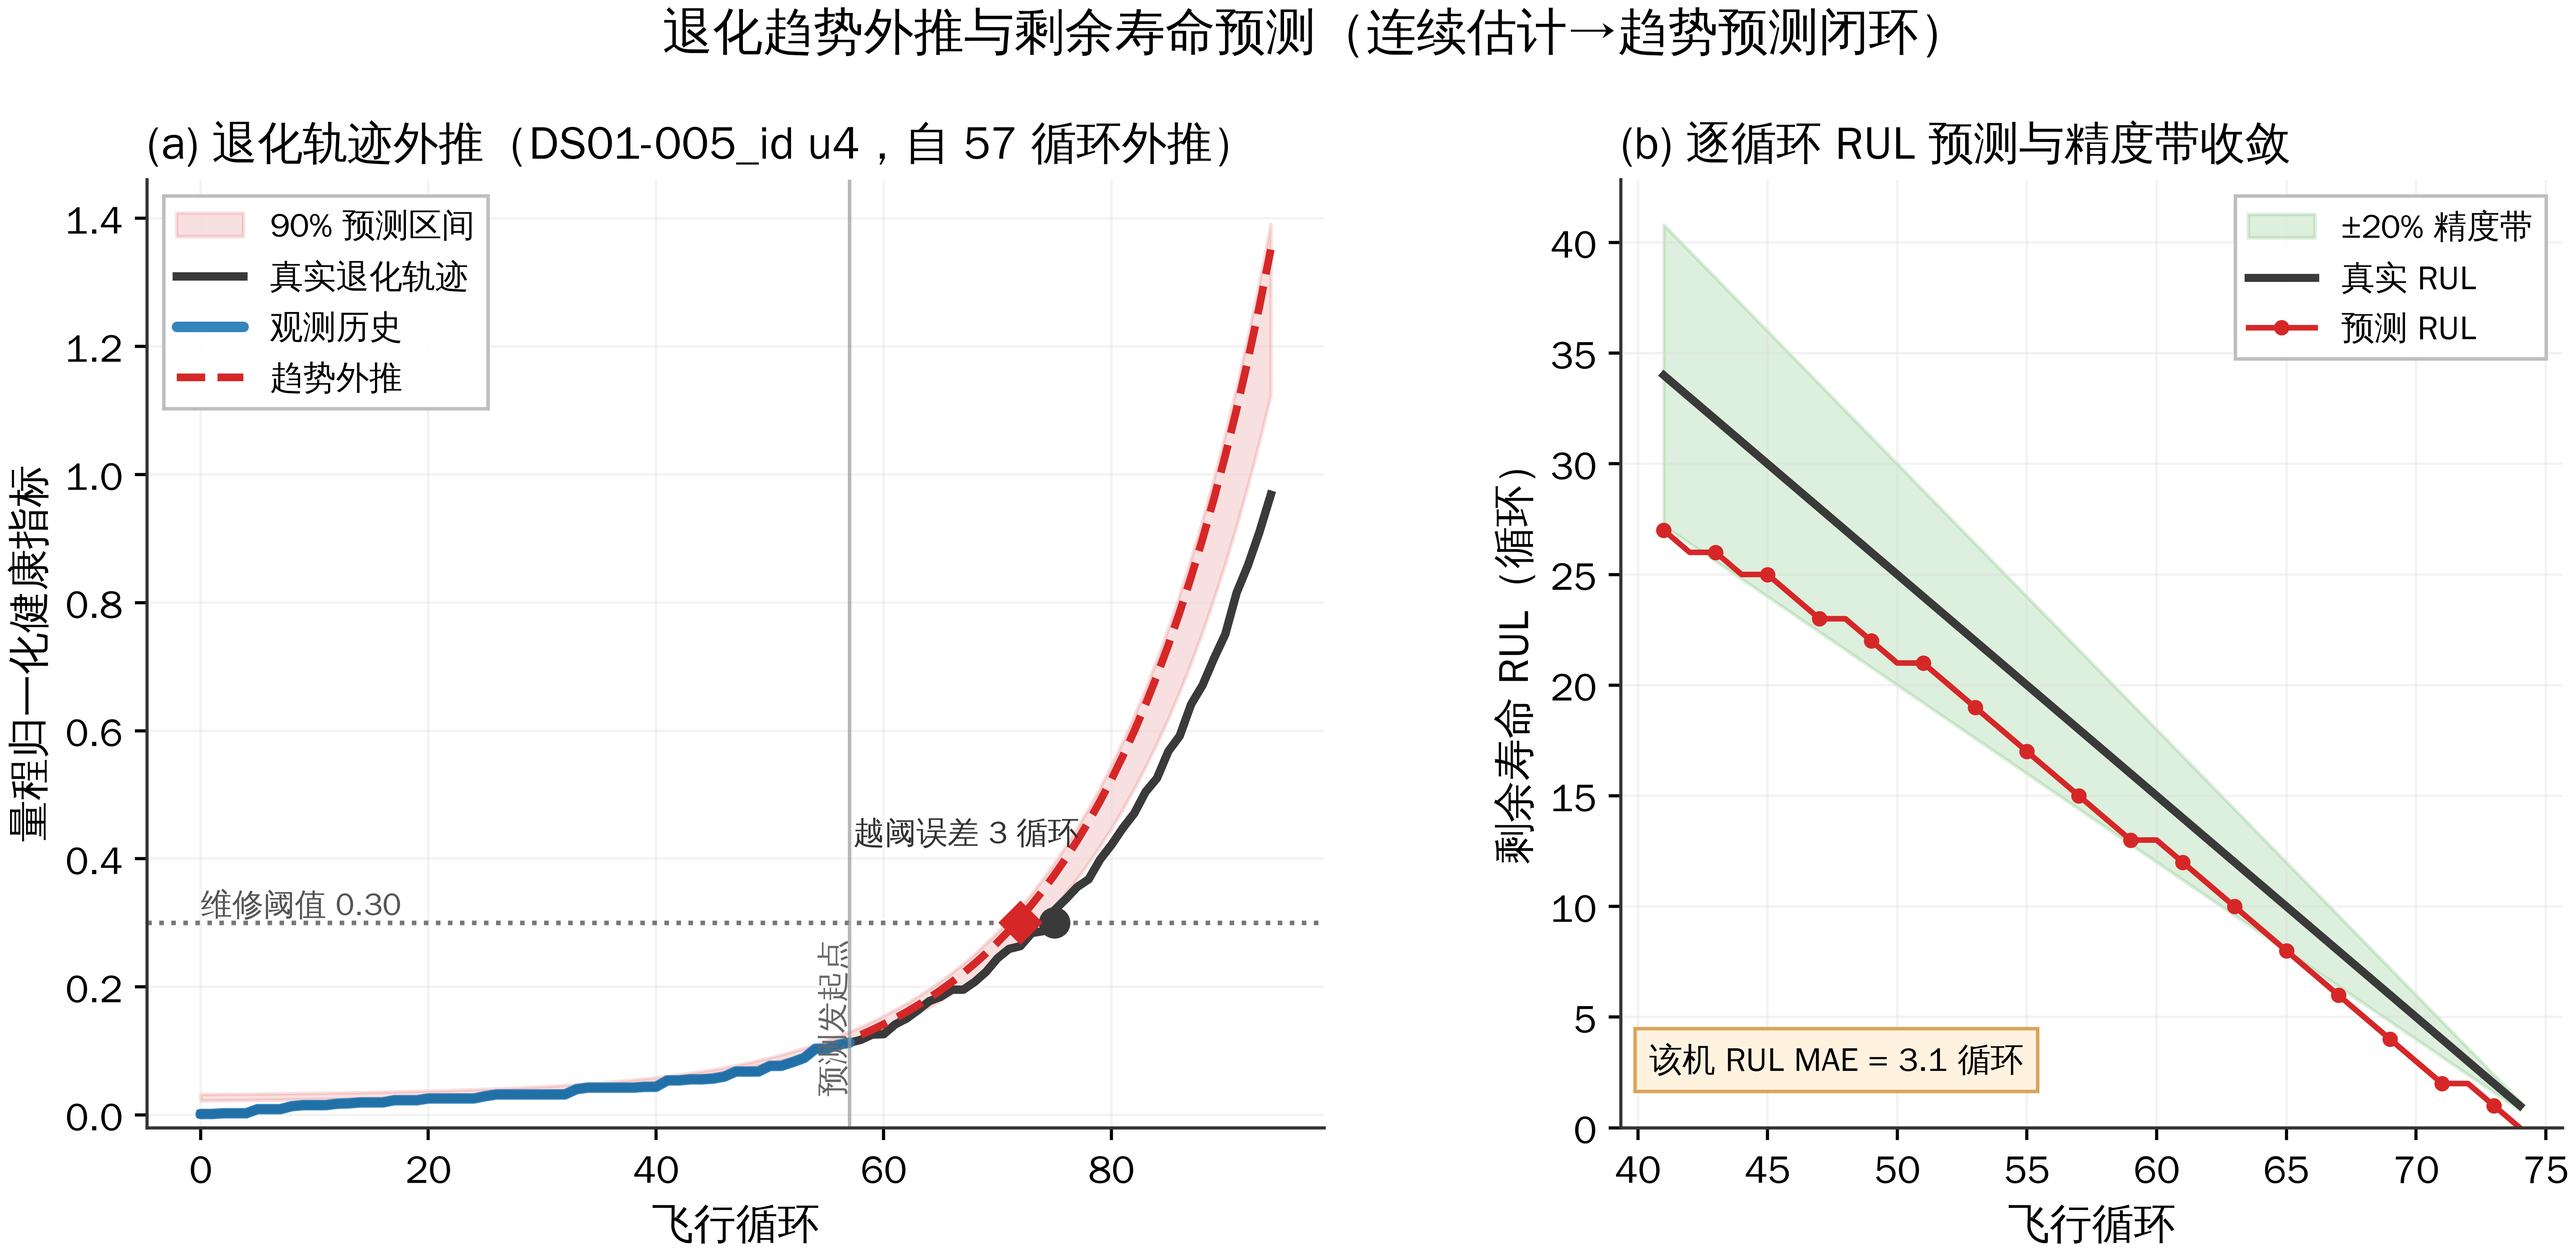
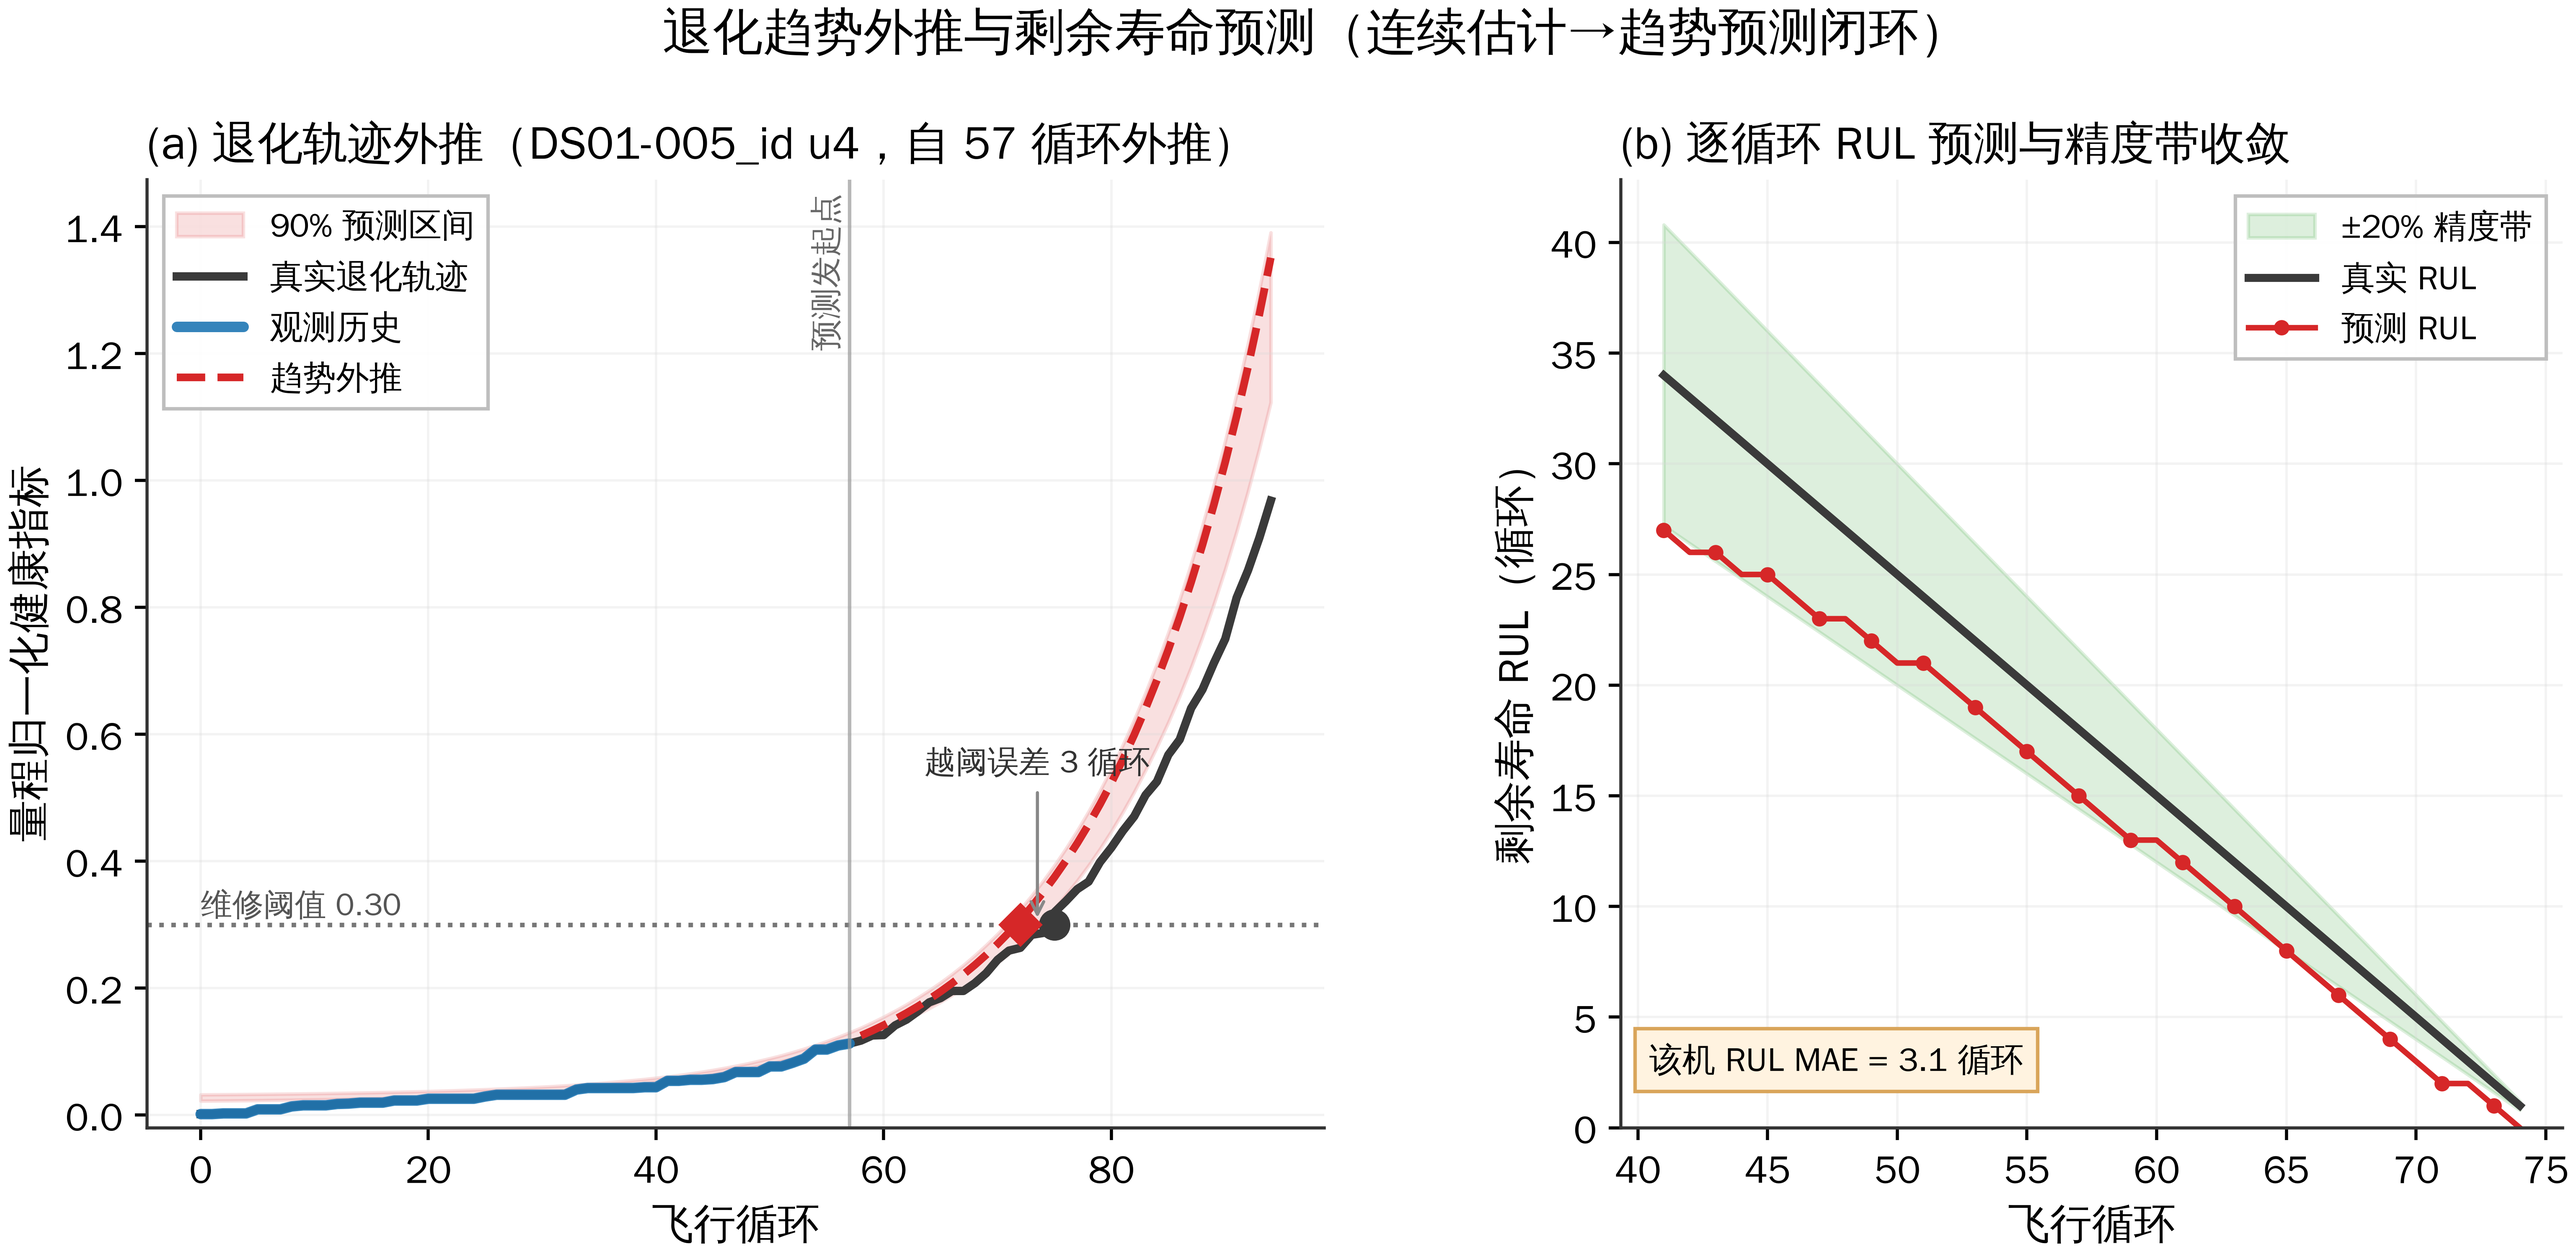
图3-18美学微调：预测发起点标签移至竖线顶端，越阈误差加引出箭头，y轴上界自适应
Claude-Session: https://claude.ai/code/session_01A33HP1tVe9reDZzHpvN5TA

diff --git a/figure_pipeline/fig_prognostics.py b/figure_pipeline/fig_prognostics.py
@@ -37,9 +37,10 @@ def fig_trajectory_rul():
     ax.plot(t.cycle[~hist], t.hi_pred[~hist], color=S.D_COLOR, lw=2.2, ls="--",
             label="趋势外推")
     ax.axhline(thr, color="#777777", ls=":", lw=1.3)
-    ax.text(t.cycle.min(), thr + 0.012, f"维修阈值 {thr:.2f}", fontsize=9, color="#555555")
+    ax.text(t.cycle.min(), thr + 0.015, f"维修阈值 {thr:.2f}", fontsize=9, color="#555555")
+    ytop = float(max(t.band_hi.max(), t.hi_true.max())) * 1.06
     ax.axvline(anchor, color="#999999", lw=1.0, ls="-", alpha=0.7)
-    ax.text(anchor, ax.get_ylim()[1] * 0.02, "预测发起点", rotation=90, va="bottom",
+    ax.text(anchor - 0.6, ytop * 0.985, "预测发起点", rotation=90, va="top",
             ha="right", fontsize=9, color="#666666")
     # 真值/预测越阈循环标记
     def _cross(y):
@@ -51,12 +52,13 @@ def fig_trajectory_rul():
     if cp is not None:
         ax.plot([cp], [thr], "D", color=S.D_COLOR, ms=8, zorder=5)
     if ct is not None and cp is not None:
-        ax.annotate(f"越阈误差 {abs(cp-ct)} 循环", xy=(max(ct, cp), thr),
-                    xytext=(0.60, 0.30), textcoords="axes fraction", fontsize=9,
-                    color="#333333", ha="left")
+        mid = (ct + cp) / 2
+        ax.annotate(f"越阈误差 {abs(cp-ct)} 循环", xy=(mid, thr),
+                    xytext=(mid, thr + 0.24), fontsize=9, color="#333333", ha="center",
+                    arrowprops=dict(arrowstyle="->", color="#888888", lw=0.9))
     ax.set_xlabel("飞行循环"); ax.set_ylabel("量程归一化健康指标")
     ax.set_title(f"(a) 退化轨迹外推（{subset} u{unit}，自 {anchor} 循环外推）", loc="left")
-    ax.set_ylim(bottom=-0.02)
+    ax.set_ylim(-0.02, ytop)
     ax.grid(alpha=0.3); ax.legend(loc="upper left", fontsize=9.5)
 
     # (b) alpha-lambda RUL 漏斗
